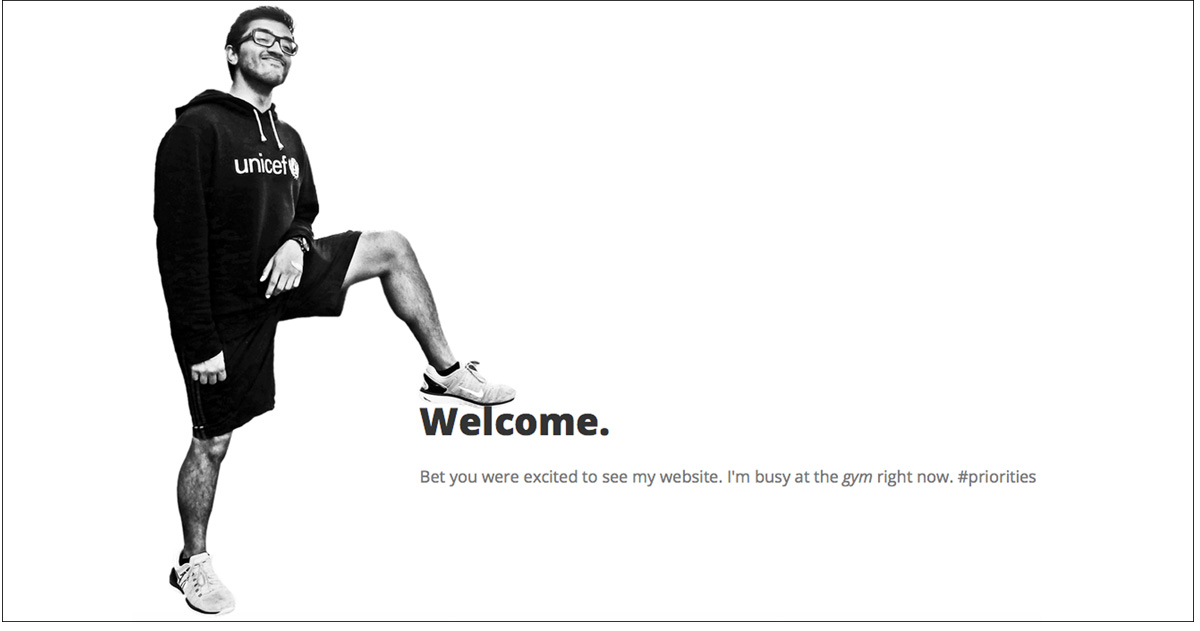
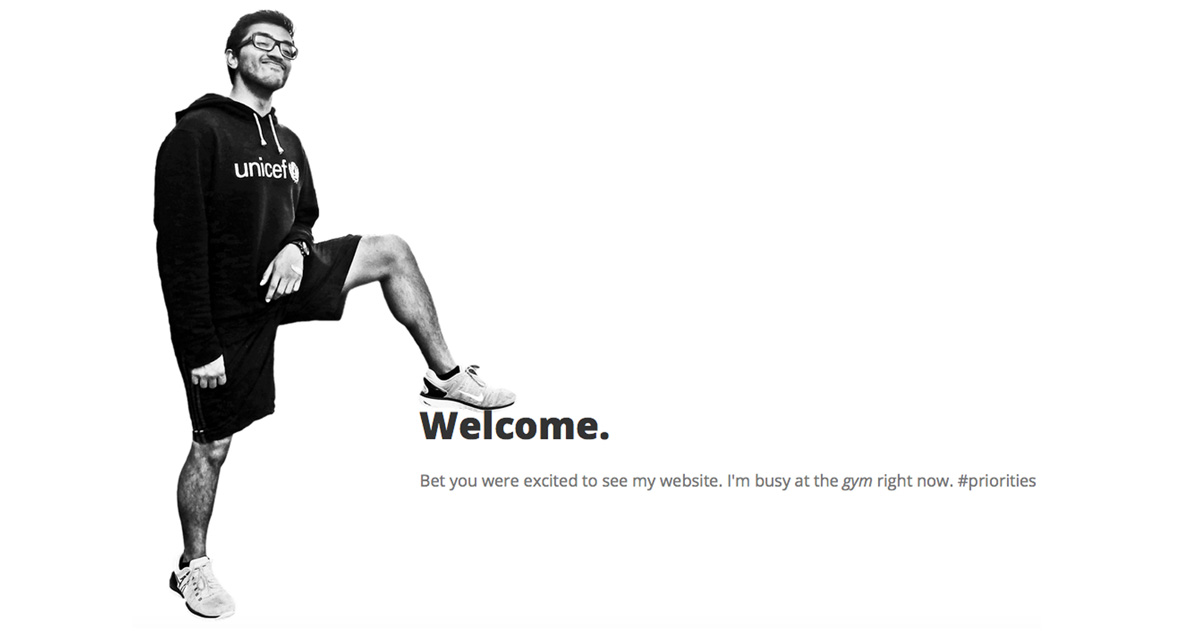
small change

diff --git a/index.html b/index.html
@@ -6,10 +6,9 @@
 	<link rel="stylesheet" href="https://maxcdn.bootstrapcdn.com/bootstrap/3.3.6/css/bootstrap.min.css" integrity="sha384-1q8mTJOASx8j1Au+a5WDVnPi2lkFfwwEAa8hDDdjZlpLegxhjVME1fgjWPGmkzs7" crossorigin="anonymous">
 	<meta property="og:title" content="Pratik Sampat: Coming to a Browser Near You" />
 	<meta property="og:type" content="website" />
-	<meta property="og:image" content="fbimage.png" />
-	<meta property="og:image:type" content="image/png" />
-	<meta property="og:image:width" content="1500" />
-	<meta property="og:image:height" content="1000" />
+	<meta property="og:image" content="fbimage.jpg" />
+	<meta property="og:image:type" content="image/jpg" />
+	
 	<meta property="og:description" content="" />
 	<meta property="og:image:url" content="http://pratiksampat.com" />
 	<meta property="og:url" content="http://pratiksampat.com" />
